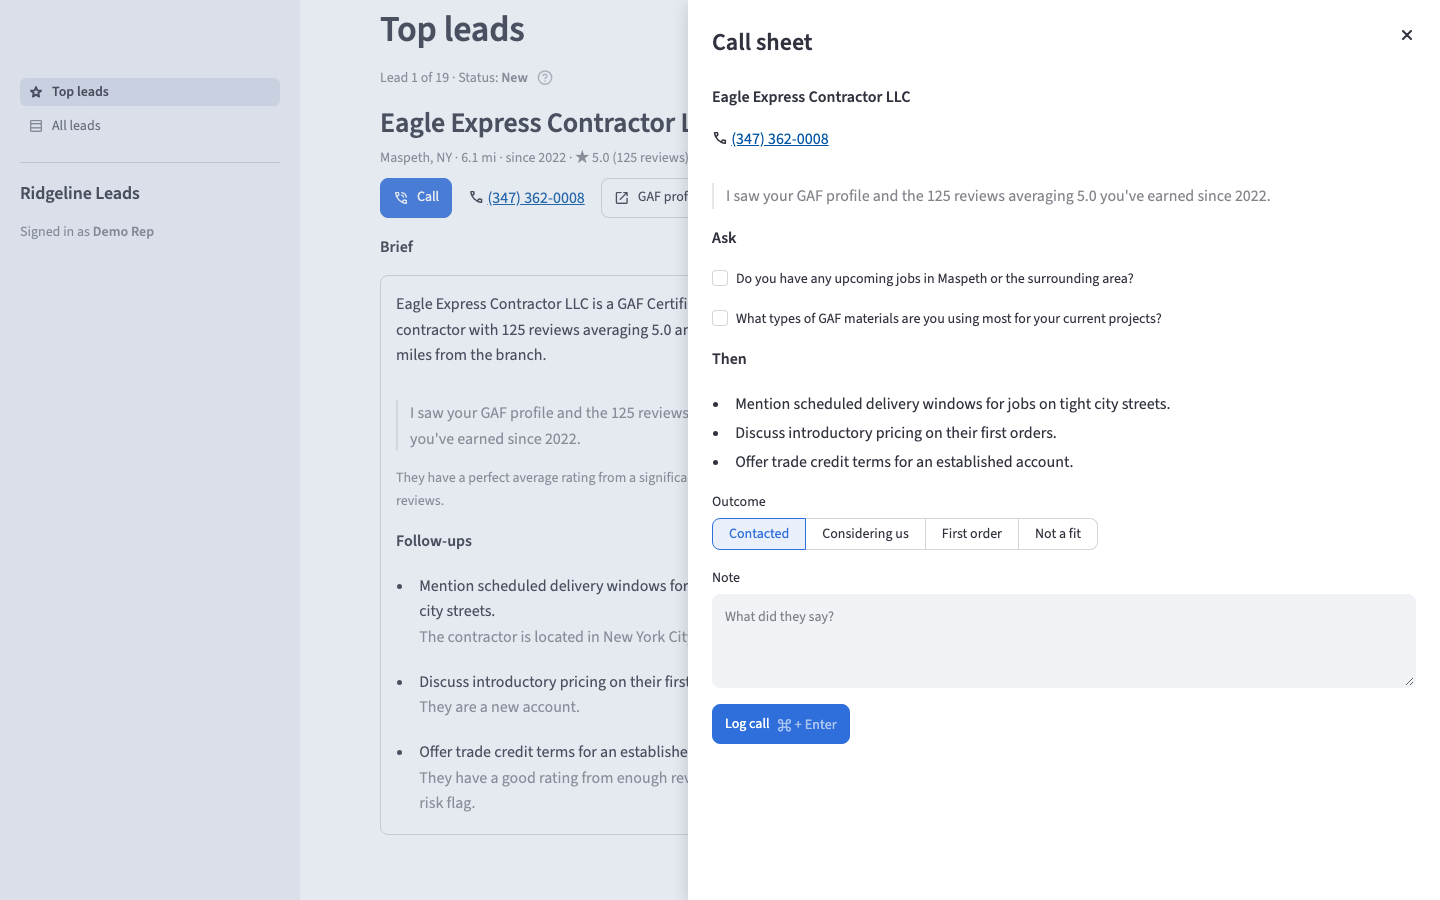
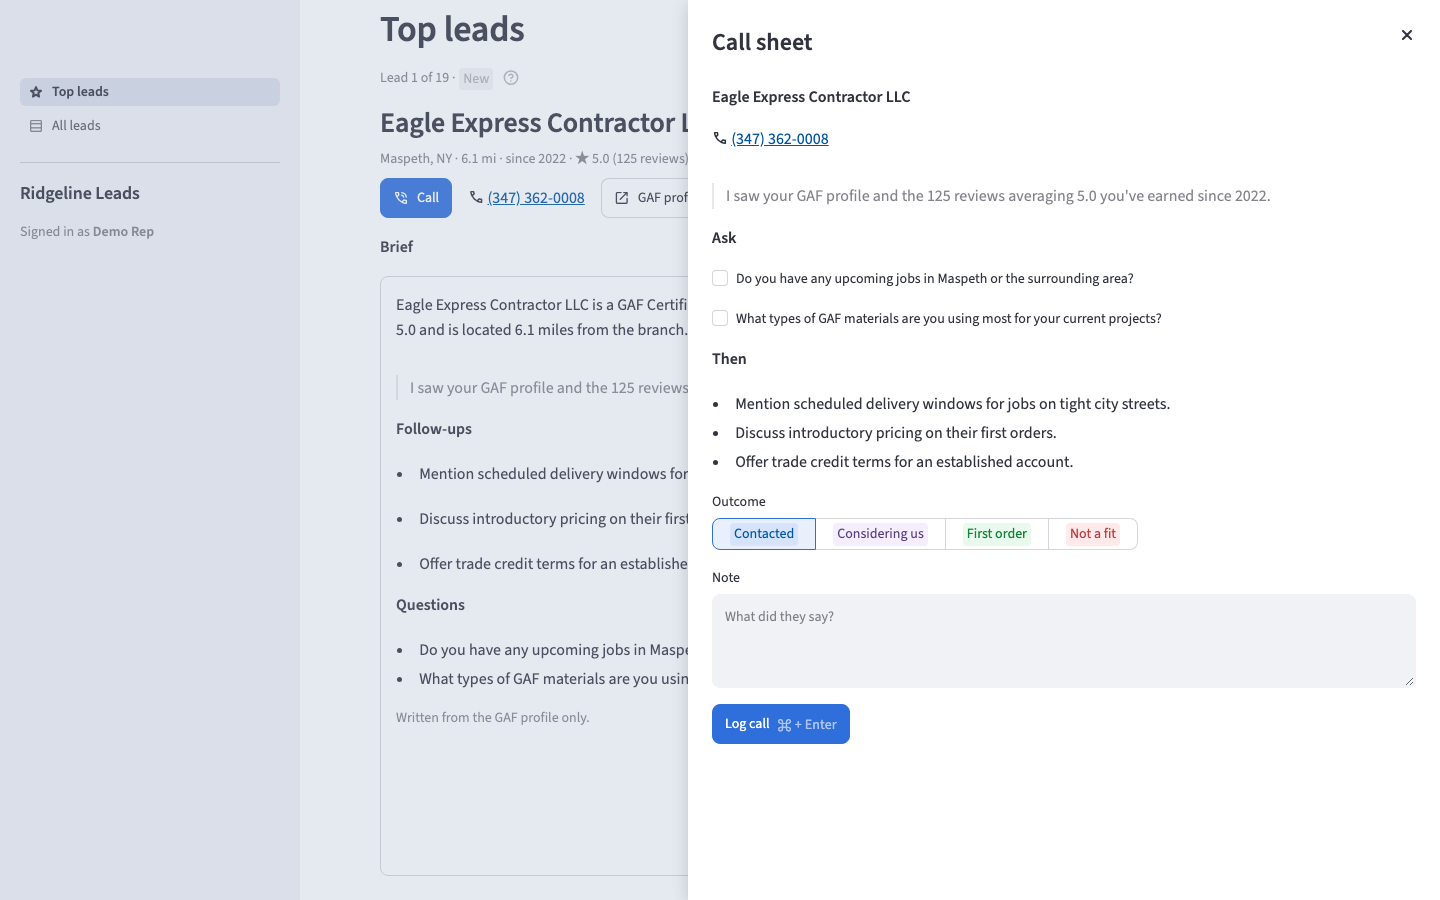
Document the one-screen Top leads, the status colors and history, and the Brief column
The screenshots come from a fresh copy of seed/leads.db, so they show no rep notes.

diff --git a/DESIGN.md b/DESIGN.md
@@ -19,7 +19,7 @@ I assumed a new distributor entering the market, so every contractor is a prospe
 - **Who to call first:** the app opens on the top 10 of each preset (Balanced, Big accounts and Quick wins), 19 leads in all, one at a time, with the signals behind each score. Every other contractor is a click away, ranked by the preset the rep picks.
 - **What to say:** for each preset's top 10, a brief with why this contractor, an opener, follow-ups, and questions about upcoming jobs.
 - **What we know:** facts from the contractor's GAF profile and website, each with the quote it came from: the ones a brief cites, or all of them for a lead without a brief.
-- **Where it stands:** a status on the ladder, notes, and a call sheet that logs a call in one step.
+- **Where it stands:** a status on the ladder, in the same color everywhere, and a call sheet that logs a call in one step and shows how the status has changed.
 
 Where data is missing, the app says so instead of guessing. The clearest time saving is in choosing who to call: 423 contractors become a ranked list with reasons, instead of profiles and websites opened one by one. The briefs help least where little is known. I haven't measured either with reps; in production I'd track the time from opening a lead to logging a call, and the win rate by score band.
 
@@ -111,20 +111,20 @@ I chose Streamlit over React, NiceGUI and HTMX. Python is my strongest language,
 
 The principle is that a rep should know the next step within seconds of opening a lead. A review at laptop size shaped the layout:
 
-- The app opens on Top leads: one lead at a time from every preset's top 10, with its brief, its score's reasons, and its notes side by side, so nothing hides behind a tab. Previous and Next step through them: the leads more presets pick come first, then the ones placed highest in a preset, so the rep has no preset to choose.
+- The app opens on Top leads: one lead at a time from every preset's top 10, with its brief and its score's reasons side by side, so nothing hides behind a tab or a scrollbar. Why each step of the brief fits shows on hover, which keeps every top lead on one screen. Previous and Next step through them: the leads more presets pick come first, then the ones placed highest in a preset, so the rep has no preset to choose.
 - Top leads shows only leads with a brief, so every lead on it comes with a plan.
 - Tags name only exceptions: the presets whose top 10 a lead is in, a tier above Certified, or New business.
-- All leads, the second page, keeps every contractor: the table, ranked by the preset the rep picks, on the left and the selected lead on the right, in tabs.
+- All leads, the second page, keeps every contractor: the table, ranked by the preset the rep picks, on the left and the selected lead on the right, in tabs. A tick marks the leads with a brief, and a click anywhere on a row opens that lead.
 - On All leads, a filter counts leads by stage, so the list shrinks as the rep works.
 - Search by name or phone doubles as a lookup when a contractor calls in.
-- A call sheet logs the outcome and opens the next lead.
+- A call sheet is the one place to log a call or a note. It logs the outcome, shows the history as status changes (New → Contacted), and opens the next lead.
 - Each page fits one laptop screen with no page scroll.
 
 ![The call sheet for Eagle Express, open beside the lead](docs/call-sheet.png)
 
 ## 5. How I built it
 
-I built the system in nine slices with Claude Code, checking each against its brief and the tests before starting the next. The 186 tests run offline against saved real pages, so a change to a parser or a rule is checked without touching the network. Each brief placed the work in the whole system: the files it touched, the rules every slice keeps, and the checks that prove it's done. Those rules and a map of the code are committed as AGENTS.md, so another developer, or their own agent, can pick up the codebase quickly. The README's table shows what can be customized, where, and what to rerun. I kept a decision log throughout, and this document condenses it.
+I built the system in nine slices with Claude Code, checking each against its brief and the tests before starting the next. The 185 tests run offline against saved real pages, so a change to a parser or a rule is checked without touching the network. Each brief placed the work in the whole system: the files it touched, the rules every slice keeps, and the checks that prove it's done. Those rules and a map of the code are committed as AGENTS.md, so another developer, or their own agent, can pick up the codebase quickly. The README's table shows what can be customized, where, and what to rerun. I kept a decision log throughout, and this document condenses it.
 
 ## 6. What I'd do with another 8 hours
 

diff --git a/README.md b/README.md
@@ -1,6 +1,6 @@
 # Ridgeline Leads
 
-Ridgeline Leads is a sales-intelligence tool for a roofing distributor's branch: a batch pipeline finds the GAF-certified roofing contractors near the branch, enriches them from their GAF profiles and websites, scores them with plain rules, and has an AI write a short touch plan for the top leads. A Streamlit app opens on Top leads: every preset's top 10 together, one lead at a time, with its brief, the reasons behind its score, its notes, and a call sheet to log the call. All leads, a second page, has the full ranked list.
+Ridgeline Leads is a sales-intelligence tool for a roofing distributor's branch: a batch pipeline finds the GAF-certified roofing contractors near the branch, enriches them from their GAF profiles and websites, scores them with plain rules, and has an AI write a short touch plan for the top leads. A Streamlit app opens on Top leads: every preset's top 10 together, one lead at a time, with its brief and the reasons behind its score side by side, and a call sheet to log each call and see the lead's history. All leads, a second page, has the full ranked list, with a tick on every lead that has a brief.
 
 ![Top leads: the first of the 19 top leads, with its brief, score, and notes side by side](docs/app.png)
 
